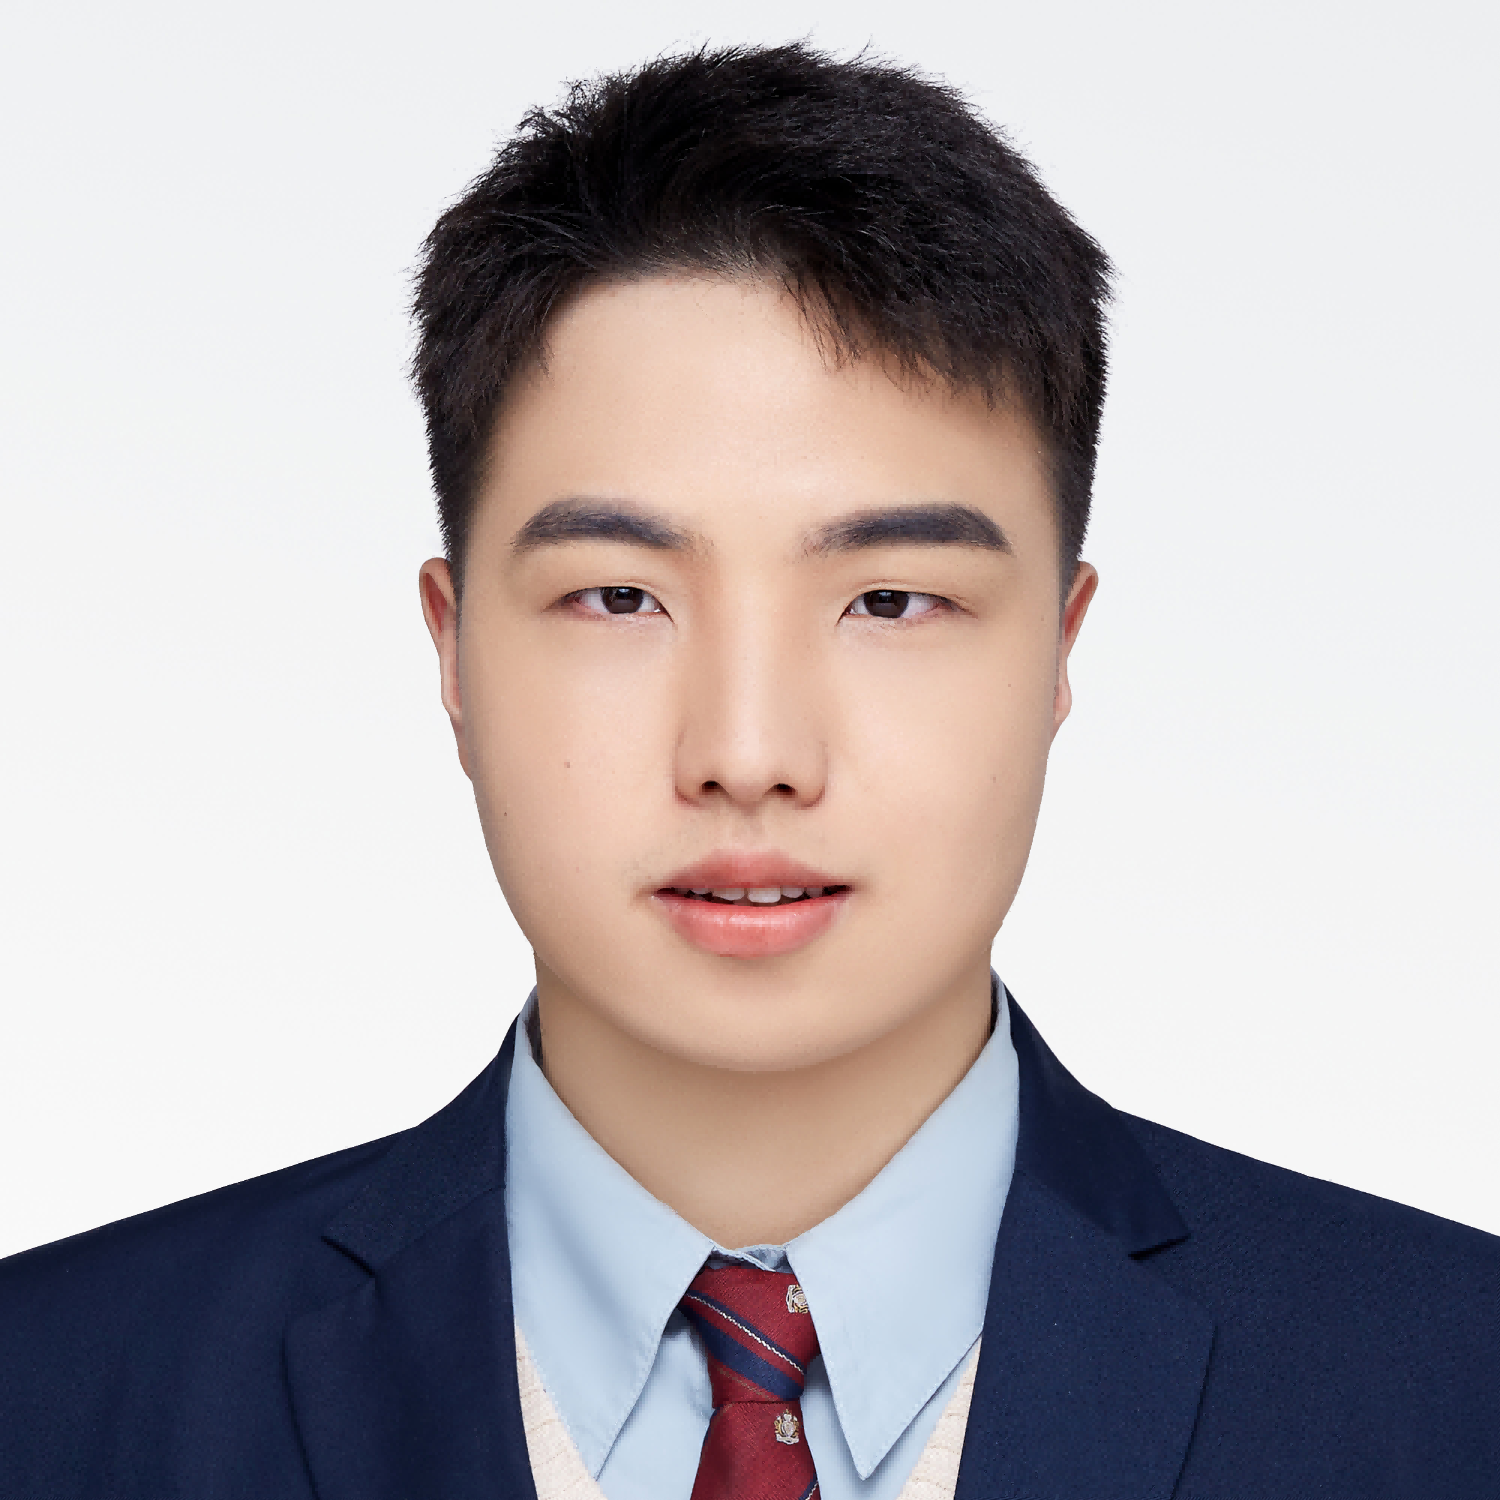
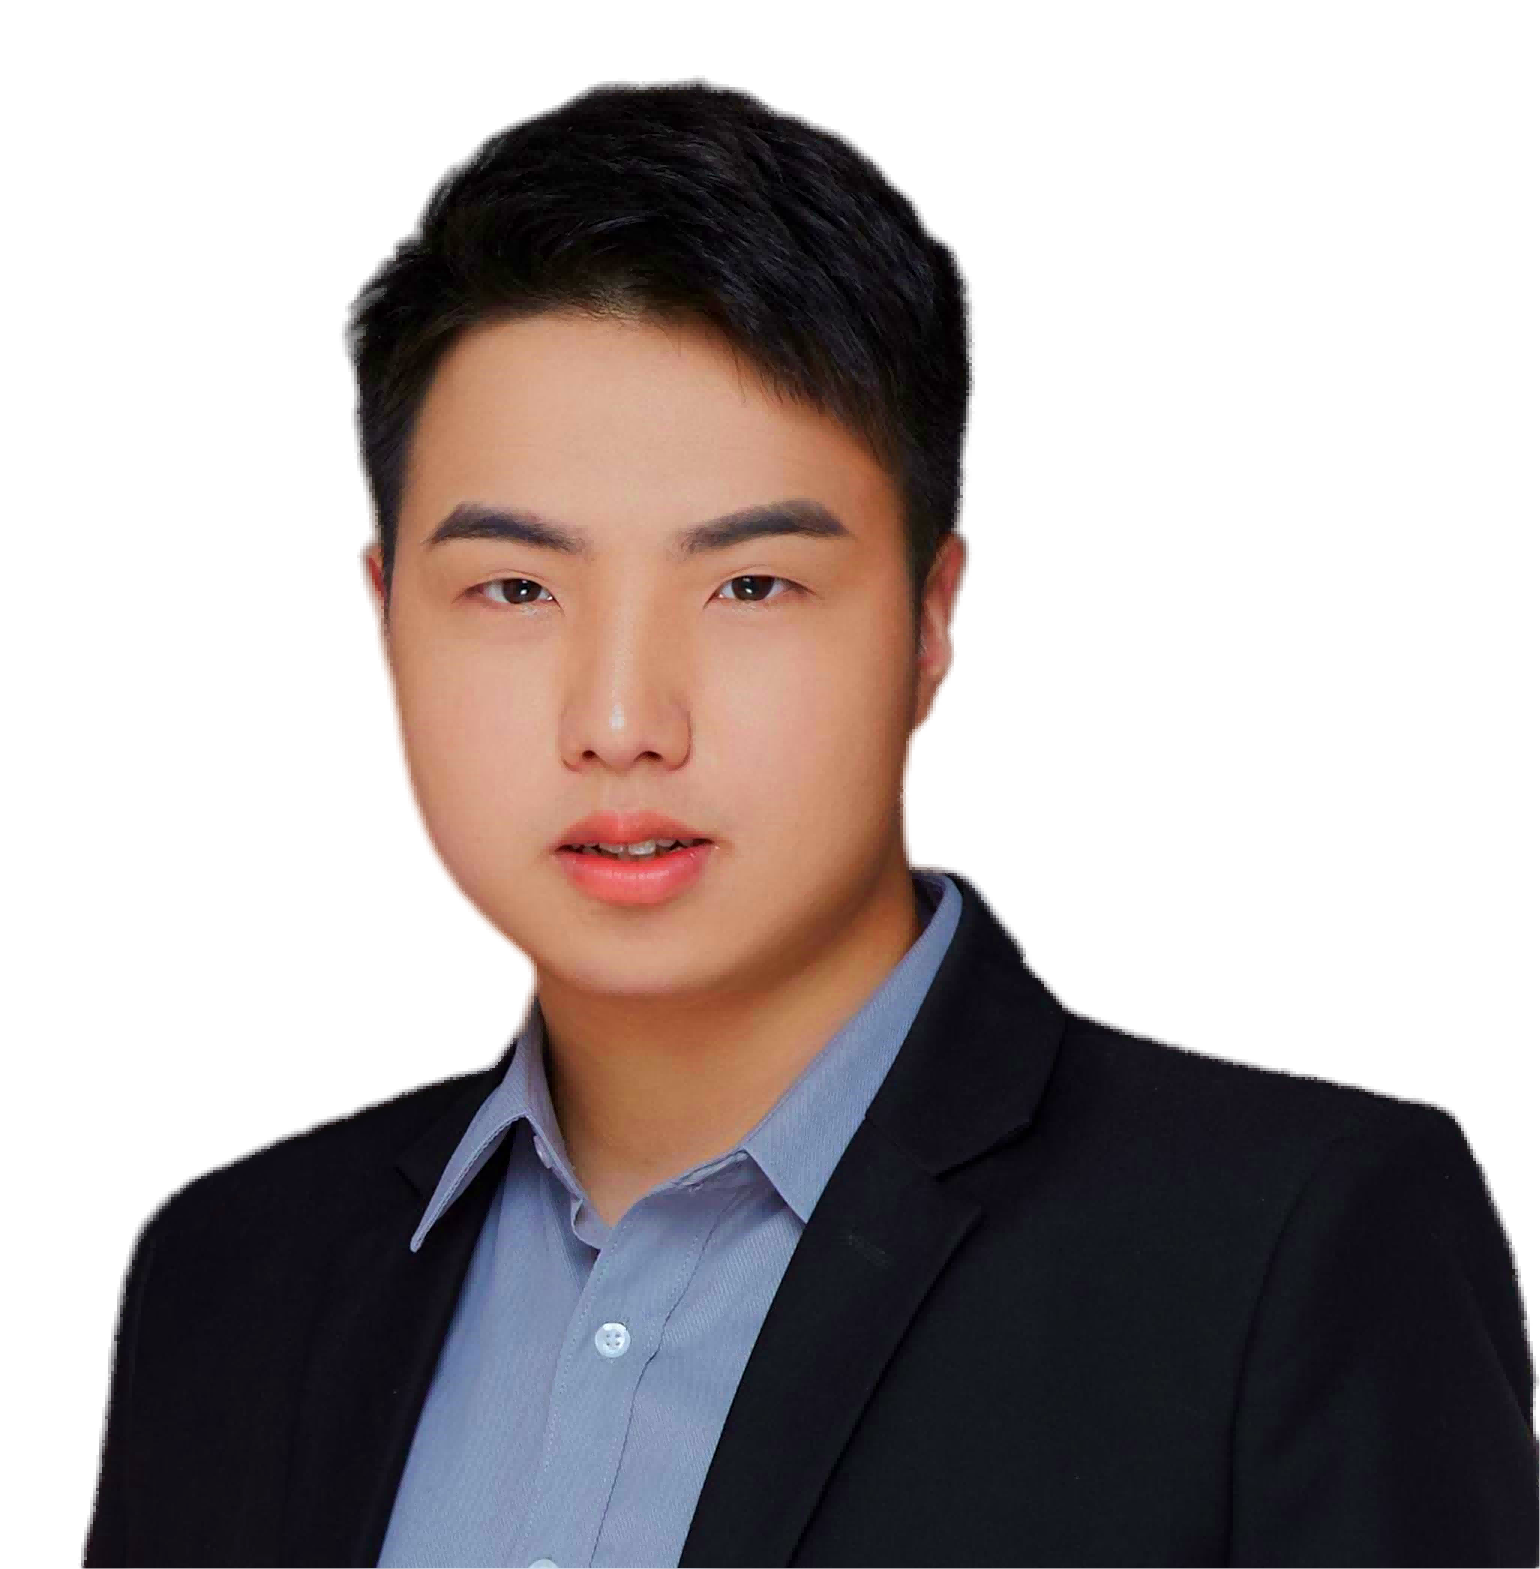
update

diff --git a/index.html b/index.html
@@ -39,14 +39,13 @@
                     <img src='images/name.png' width="120" align="absbottom">
                   </p>
                   <p>
-                    Hi here, I'm Ling-Hao CHEN (陈凌灏 in Chinese, Evan in English)! Now, I am a student in <a
+                    Hi here, I'm Ling-Hao CHEN (陈凌灏 in Chinese, Evan in English)! Now, I am now an incoming Ph.D. student of <a href="https://www.tsinghua.edu.cn/">Tsinghua University</a>, advised by Prof. <a href="https://www.microsoft.com/en-us/research/people/hshum/">Harry Shum</a>. I obtained my Bachelor degree from <a
                       href="https://cs.xidian.edu.cn/"> School of Computer Science and Technology</a> at <a
-                      href="https://en.xidian.edu.cn/">Xidian University</a>. My major is software engineering. I am
-                    expected to graduate in 2022. My research interest includes <strong> Graph representation learning, Anomaly detection, Machine Learning</strong> and <strong>Computer Vision</strong>. I am now an incoming Ph.D. student of <a href="https://www.tsinghua.edu.cn/">Tsinghua University</a>, advised by Prof. <a href="https://www.microsoft.com/en-us/research/people/hshum/">Heung-Yeung (Harry) Shum</a>. I am a student member of IEEE.
+                      href="https://en.xidian.edu.cn/">Xidian University</a> in 2022. My research interest includes <strong> Graph representation learning, Anomaly detection, Machine Learning</strong> and <strong>Computer Vision</strong>. I am a student member of IEEE.
                   </p>
                   <p>
-                    <strong>Address:</strong> G-343 and G-350, 266 Xinglong Section of Xifeng Road, Xi'an,
-                    ShaanXi, P.R. China.
+                    <strong>Address:</strong> 
+                    Room 3901, Building 1, Chang Fu Jin Mao Tower, 5 Shihua Road, Futian District, Shenzhen, P.R. China.
                   </p>
                   <p>
                     <strong>Motto:</strong> Seek the truth, practice real skills and do real things! (求真学问，练真本领，做真东西！)
@@ -102,7 +101,7 @@
                 <td width="75%" valign="center">
                   <p>
                     <i>School of Computer Science and Technology, <b>Xidian University</b></i>, Xi'an, P.R. China <br>
-                    B. Eng., from Sep. 2018 to July 2022 (expected)	<br>
+                    B. Eng., from Sep. 2018 to June 2022	<br>
                     Majored in Software Engineering. <strong>Rank:</strong> 1/398 (less than 1%); <strong>GPA:</strong> 3.9/4.0.
                   </p>
                 </td>
